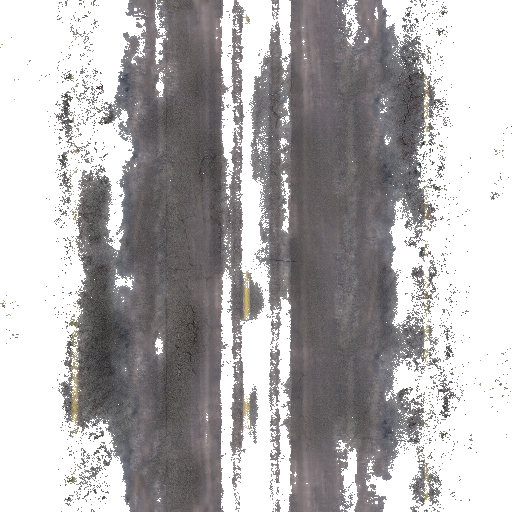
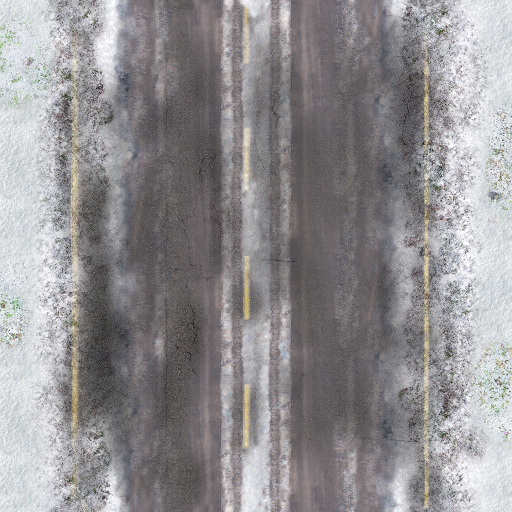
SW renderer ortho mode, texture transparency

diff --git a/jni/open4speed.cpp b/jni/open4speed.cpp
@@ -41,8 +41,6 @@ model *trackdata;               ///< Track first model
 model* water;                   ///< Water effect model
 Dynamic eff[effLen];            ///< 3D water effect object
 
-std::vector<std::pair<model*, glm::vec3> > addedModels;
-
 /**
  * @brief display updates display
  */
@@ -101,12 +99,17 @@ void display(void) {
     float cameraX = getCar(cameraCar)->transform->value[12];
     float cameraY = getCar(cameraCar)->transform->value[13];
     float cameraZ = getCar(cameraCar)->transform->value[14];
+    //need for speed style
     cameraX -= sin(d) * getCar(cameraCar)->control->getDistance() * 2.5f / (view / 90);
     cameraY += fmax(1.0, getCar(cameraCar)->control->getDistance()) / (view / 90);
     cameraZ -= cos(d) * getCar(cameraCar)->control->getDistance() * 2.5f / (view / 90);
     xrenderer->lookAt(glm::vec3(cameraX - sin(d) * 0.1f, cameraY + 0.5f, cameraZ - cos(d) * 0.1f),
                       glm::vec3(cameraX + sin(direction) * 100.0f, cameraY, cameraZ + cos(direction) * 100.0f),
                       glm::vec3(0, 1, 0));
+    //gta style
+    /*xrenderer->lookAt(glm::vec3(cameraX, cameraY + 10.0f, cameraZ),
+                      glm::vec3(cameraX, cameraY, cameraZ),
+                      glm::vec3(0, 0, 1));*/
 
     /// render skydome
     xrenderer->pushMatrix();
@@ -118,10 +121,6 @@ void display(void) {
     /// render track
     xrenderer->enable[1] = false;
     xrenderer->renderModel(trackdata, glm::vec3(0, 0, 0));
-
-    for (int i = 0; i < addedModels.size(); i++) {
-        xrenderer->renderModel(addedModels[i].first, addedModels[i].second);
-    }
 
     /// render cars
     xrenderer->enable[2] = false;
@@ -268,34 +267,11 @@ void loadScene(std::string filename) {
         delete f;
     }
 
-    /// load special models
-    addedModels.clear();
-    int index = 0;
-    while(true) {
-        index++;
-        char key[128];
-        sprintf(key, "add%d_model", index);
-        std::string m = getConfigStr(key, atributes);
-        if(m.size() == 0)
-          break;
-        model* mod = getModel(m);
-        sprintf(key, "add%d_x", index);
-        float x = getConfig(key, atributes);
-        sprintf(key, "add%d_z", index);
-        float z = getConfig(key, atributes);
-        addedModels.push_back(std::pair<model*, glm::vec3>(mod, glm::vec3(x, 0, z)));
-        getPhysics()->addModel(mod, glm::vec3(x, 0, z));
-    }
-
     /// load sky
     skydome = getModel(p + getConfigStr("sky_model", atributes));
 
     /// load player car
-#ifdef VR
-    addCar(new car(new airacer(), &e, getConfigStr("player_car", atributes))); //autopilot just for testing
-#else
     addCar(new car(getInput(), &e, p + getConfigStr("player_car", atributes)));
-#endif
 
     /// load race informations
     getCar(0)->lapsToGo = getConfig("laps", atributes);

diff --git a/jni/renderers/simple/srenderer.cpp b/jni/renderers/simple/srenderer.cpp
@@ -32,8 +32,6 @@ srenderer::srenderer() {
     camZ = 0;
     direction = 0;
     mode3D = 0;
-    viewDistance = 1000;
-
     depthBuffer = 0;
     pixelBuffer = 0;
     fillCache1 = 0;
@@ -90,7 +88,7 @@ srenderer::~srenderer() {
 void srenderer::clear() {
     //clear arrays
     for (int i = 0; i < viewport_width * viewport_height + 1; i++) {
-        depthBuffer[i] = viewDistance;
+        depthBuffer[i] = 9999999999999999;
         //pixelBuffer[i] = black;
     }
 }
@@ -157,6 +155,11 @@ void srenderer::renderSubModel(model* mod, model3d *m, glm::vec3 center) {
         modelView = view_matrix * modelMat;
     }
     matrix = proj_matrix * modelView;
+    //ortho mode
+    float w = 38.4f;
+    float h = 25.6f;
+    glm::mat4 ortho = glm::ortho(-w, w, -h, h);
+    matrix = ortho * modelView;
 
     // apply texture
     m->texture2D->apply();
@@ -179,7 +182,8 @@ void srenderer::rtt(bool enable) {
         return;
     }
     glDisable(GL_DEPTH_TEST);
-    glDrawPixels( viewport_width, viewport_height, GL_RGB, GL_UNSIGNED_BYTE, getBuffer() );
+    if(pixelBuffer)
+      glDrawPixels( viewport_width, viewport_height, GL_RGBA, GL_UNSIGNED_BYTE, (unsigned char*)pixelBuffer );
     printf("Software rendering: %dms\n", (unsigned int)(tv.tv_sec * 1000 + tv.tv_usec / 1000) - timestamp);
 }
 
@@ -412,10 +416,9 @@ void srenderer::triangles(float* vertices, float* coords, int offset, int size) 
                 for (; x >= 0; x--) {
 
                     //write pixel into memory and depth test
-                    if ((0 < z1.z) && (depthBuffer[mem] > z1.z)) {
-                        texture->setPixel(pixelBuffer, mem, z1.x, z1.y);
-                        depthBuffer[mem] = z1.z;
-                    }
+                    if ((0 < z1.z) && (depthBuffer[mem] > z1.z))
+                        if(texture->setPixel(pixelBuffer, mem, z1.x, z1.y))
+                            depthBuffer[mem] = z1.z;
 
                     //interpolate
                     mem += step;
@@ -459,7 +462,6 @@ void srenderer::perspective(float fovy, float aspect, float zNear, float zFar) {
         matrixBuffer.pop();
     }
     proj_matrix = glm::perspective((float)(fovy * M_PI / 180.0f), aspect, zNear,zFar);
-    viewDistance = zFar;
 }
 
 /**

diff --git a/jni/renderers/simple/stexture.cpp b/jni/renderers/simple/stexture.cpp
@@ -29,6 +29,8 @@ stexture::stexture(std::vector<texture*> anim) {
     this->anim = anim;
     transparent = true;
     animated = true;
+    twidth = 0;
+    theight = 0;
 
     /// set animation speed
     multiFrame = anim.size() / 50;
@@ -58,8 +60,9 @@ stexture::stexture(Texture texture) {
         data[i].r = texture.data[index++];
         data[i].g = texture.data[index++];
         data[i].b = texture.data[index++];
+        data[i].a = 255;
         if (transparent)
-            index++;
+            data[i].a = texture.data[index++];
     }
     delete[] texture.data;
 }
@@ -96,7 +99,7 @@ void stexture::setFrame(int frame) {
  * @param s is position x in texture
  * @param t is position y in texture
  */
-void stexture::setPixel(Color* buffer, int mem, double s, double t) {
+bool stexture::setPixel(Color* buffer, int mem, double s, double t) {
     s -= (int)s;
     t -= (int)t;
     if (s < 0)
@@ -106,10 +109,11 @@ void stexture::setPixel(Color* buffer, int mem, double s, double t) {
     if (currentFrame == -1) {
         s *= twidth - 1;
         t *= theight - 1;
-        buffer[mem] = data[(int)s + (int)t * twidth];
-    } else {
-        s *= anim[currentFrame]->twidth - 1;
-        t *= anim[currentFrame]->theight - 1;
-        buffer[mem] = ((stexture*)anim[currentFrame])->data[(int)s + (int)t * anim[currentFrame]->twidth];
+        Color c = data[(int)s + (int)t * twidth];
+        if((int)c.a > 0) {
+          buffer[mem] = c;
+          return true;
+        }
     }
+    return false;
 }

diff --git a/jni/physics/bullet/bullet.cpp b/jni/physics/bullet/bullet.cpp
@@ -44,26 +44,16 @@
  */
 bullet::~bullet() {
     delete m_dynamicsWorld;
-    while(!m_vehicle.empty()) {
-        delete m_vehicle[0];
-        m_vehicle.erase(m_vehicle.begin());
-    }
-    while(!bodies.empty()) {
-        delete bodies[0];
-        bodies.erase(bodies.begin());
-    }
-    while(!shapes.empty()) {
-        delete shapes[0];
-        shapes.erase(shapes.begin());
-    }
-    while(!meshes.empty()) {
-        delete meshes[0];
-        meshes.erase(meshes.begin());
-    }
-    while(!bodies2.empty()) {
-        delete bodies2[0];
-        bodies2.erase(bodies2.begin());
-    }
+    if(!m_vehicle.empty())
+        delete[] &m_vehicle[0];
+    if(!bodies.empty())
+        delete[] &bodies[0];
+    if(!shapes.empty())
+        delete[] &shapes[0];
+    if(!meshes.empty())
+        delete[] &meshes[0];
+    if(!bodies2.empty())
+        delete[] &bodies2[0];
 
     delete m_vehicleRayCaster;
     delete m_collisionConfiguration;

diff --git a/jni/renderers/simple/srenderer.h b/jni/renderers/simple/srenderer.h
@@ -43,12 +43,6 @@ public:
     void clear();
 
     /**
-     * @brief getBuffer gets pixel buffer
-     * @return pointer to pixel buffer
-     */
-    unsigned char* getBuffer() { return (unsigned char*)pixelBuffer; }
-
-    /**
       * @brief line makes markers for filling triangle
       * @param x1 is line start position x
       * @param y1 is line start position y
@@ -185,8 +179,6 @@ private:
     glm::mat4x4 modelMat;                 ///< Model matrix
     glm::mat4x4 matrix_result;            ///< Temp matrix for calculations
     std::stack<glm::mat4x4> matrixBuffer; ///< Matrix stack
-    float viewDistance;                   ///< Camera far culling
-
 };
 
 #endif // SIMPLE_H

diff --git a/jni/renderers/simple/stexture.h b/jni/renderers/simple/stexture.h
@@ -15,7 +15,7 @@
 
 // Struct for color of pixel r,g,b red, green, blue values
 struct Color {
-    unsigned char r,g,b;
+    unsigned char r,g,b,a;
 };
 
 class stexture : public texture {
@@ -64,7 +64,7 @@ public:
      * @param s is position x in texture
      * @param t is position y in texture
      */
-    void setPixel(Color* buffer, int mem, double s, double t);
+    bool setPixel(Color* buffer, int mem, double s, double t);
 };
 
 #endif // stexture_H
